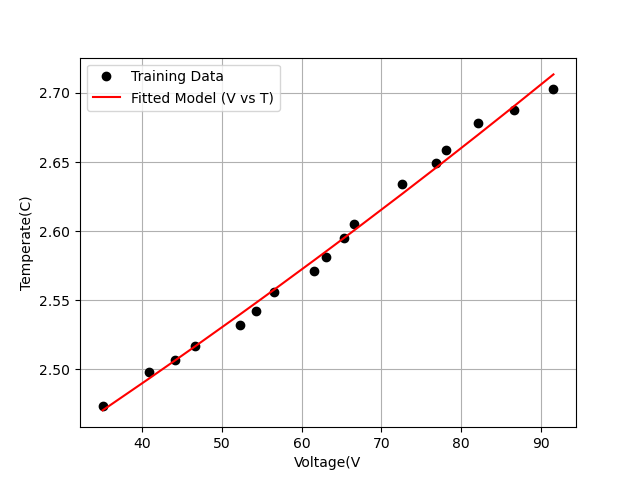
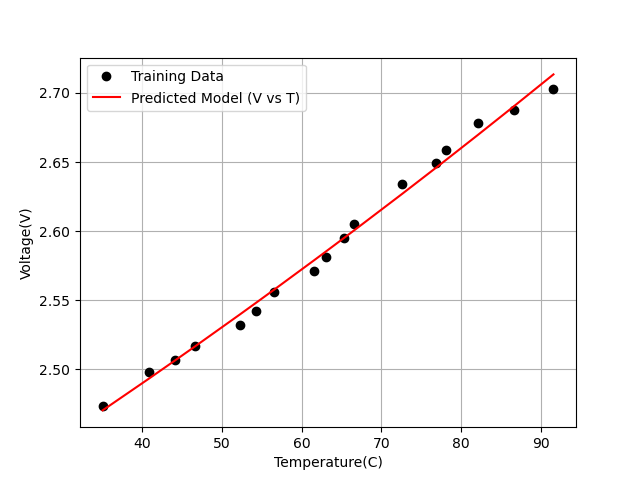
EE25BTECH11041 EE25BTECH1130 - EE1030 Hardware Project Submission

Changed region(s): [[0.1875, 0.1875, 0.5, 0.2188], [0.4375, 0.9375, 0.5938, 1.0], [0.0312, 0.4062, 0.0625, 0.5938]]

diff --git a/EE25BTECH11041_EE25BTECH11030/Hardware-Assignment/codes/linear_regression/main.py b/EE25BTECH11041_EE25BTECH11030/Hardware-Assignment/codes/linear_regression/main.py
@@ -16,10 +16,10 @@ print("Coefficients for V(T):", theta_VT)
 # Plot V vs T
 plt.figure()
 plt.plot(T_train, V_train, 'ko', label='Training Data')
-plt.plot(T_train, X_train @ theta_VT, 'r-', label='Fitted Model (V vs T)')
+plt.plot(T_train, X_train @ theta_VT, 'r-', label='Predicted Model (V vs T)')
 plt.grid()
-plt.xlabel('Voltage(V')
-plt.ylabel('Temperate(C)')
+plt.xlabel('Temperature(C)')
+plt.ylabel('Voltage(V)')
 plt.legend()
 plt.savefig('../figs/train_V_vs_T.png')
 plt.close()
@@ -32,7 +32,7 @@ print("Coefficients for T(V):", theta_TV)
 # Plot T vs V
 plt.figure()
 plt.plot(V_train, T_train, 'ko', label='Training Data')
-plt.plot(V_train, Y_train @ theta_TV, 'b-', label='Fitted Model (T vs V)')
+plt.plot(V_train, Y_train @ theta_TV, 'b-', label='Predicted Model (T vs V)')
 plt.grid()
 plt.xlabel('Voltage (V)')
 plt.ylabel('Temperature (°C)')
